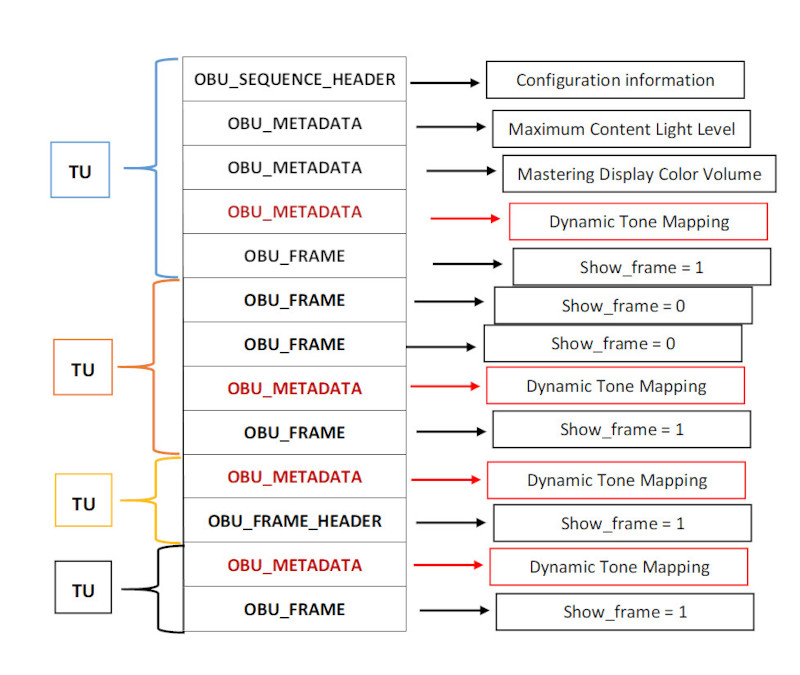
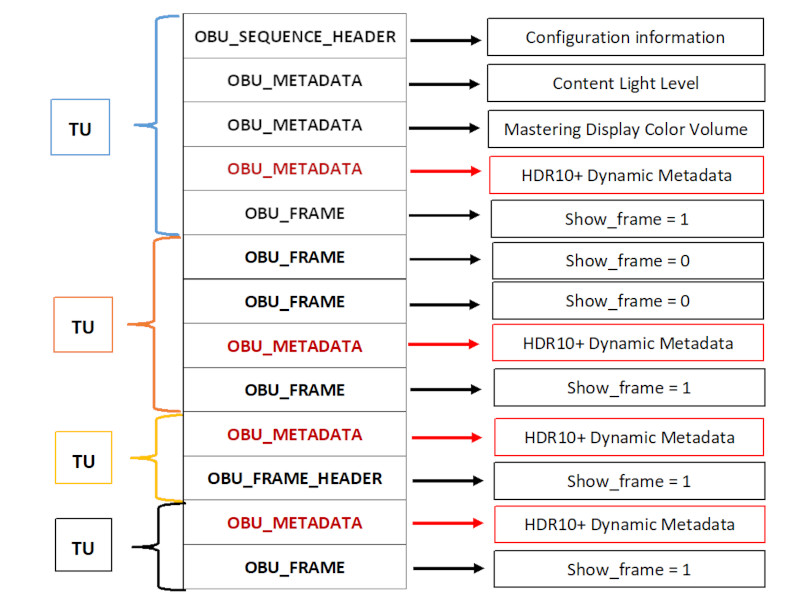
comment resolution

Changed region(s): [[0.0625, 0.0, 0.9688, 0.9672]]

diff --git a/index.html b/index.html
@@ -1487,7 +1487,7 @@ Possible extra rowspan handling
 		}
 	}
 </style>
-  <meta content="Bikeshed version 21183bac3, updated Tue Jun 15 10:19:19 2021 -0700" name="generator">
+  <meta content="Bikeshed version 3d6a6fcbb, updated Wed Jun 16 16:19:39 2021 -0700" name="generator">
   <link href="https://AOMediaCodec.github.io/av1-hdr10plus" rel="canonical">
 <style>/* style-autolinks */
 
@@ -1910,7 +1910,7 @@ THE OTHER MEMBER HAS BEEN ADVISED OF THE POSSIBILITY OF SUCH DAMAGE. </p>
   </div>
   <div class="p-summary" data-fill-with="abstract">
    <h2 class="no-num no-toc no-ref heading settled" id="abstract"><span class="content">Abstract</span></h2>
-   <p>This document specifies how to use HDR10+ metadata with <a data-link-type="biblio" href="#biblio-av1">[AV1]</a> including when supporting <span>[CMAF]</span>.</p>
+   <p>This document specifies how to use HDR10+ metadata with <a data-link-type="biblio" href="#biblio-av1">[AV1]</a> including when supporting <a data-link-type="biblio" href="#biblio-cmaf">[CMAF]</a>.</p>
   </div>
   <div data-fill-with="at-risk"></div>
   <nav data-fill-with="table-of-contents" id="toc">
@@ -1949,7 +1949,6 @@ THE OTHER MEMBER HAS BEEN ADVISED OF THE POSSIBILITY OF SUCH DAMAGE. </p>
      <a href="#references"><span class="secno"></span> <span class="content">References</span></a>
      <ol class="toc">
       <li><a href="#normative"><span class="secno"></span> <span class="content">Normative References</span></a>
-      <li><a href="#informative"><span class="secno"></span> <span class="content">Informative References</span></a>
      </ol>
    </ol>
   </nav>
@@ -1969,7 +1968,7 @@ THE OTHER MEMBER HAS BEEN ADVISED OF THE POSSIBILITY OF SUCH DAMAGE. </p>
    <p>For the purpose of this specification, the following acronyms apply:</p>
    <ul>
     <li data-md>
-     <p><b>CMAF</b>:  MPEG Common Media Application Format</p>
+     <p><b>CMAF</b>:  MPEG Common Media Application Format <a data-link-type="biblio" href="#biblio-cmaf">[CMAF]</a></p>
     <li data-md>
      <p><b>MDCV</b>:  Mastering Display Color Volume SMPTE ST 2086 <a data-link-type="biblio" href="#biblio-2086">[2086]</a></p>
     <li data-md>
@@ -1991,14 +1990,14 @@ THE OTHER MEMBER HAS BEEN ADVISED OF THE POSSIBILITY OF SUCH DAMAGE. </p>
    <h3 class="heading settled" data-level="2.1" id="hdr10-obu"><span class="secno">2.1. </span><span class="content">HDR10+ OBU</span><a class="self-link" href="#hdr10-obu"></a></h3>
    <p>In this specification, HDR10+ Metadata is defined as data with the semantics defined in <a data-link-type="biblio" href="#biblio-2094-40">[2094-40]</a>, using the syntax defined in <a data-link-type="biblio" href="#biblio-cta-861">[CTA-861]</a>, carried in a metadata_type_itut_t35 OBU. This is illustrated in Figure 2.</p>
    <center><img src="./T35.png"></center>
-   <center><b>Figure 2. </b>METADATA_TYPE_ITUT_T35 OBU Structure</center>
-   <p>For each frame with show_frame=1 or show_existing_frame=1, there shall be one and only one HDR10+ metadata OBU preceding the frame header for this frame and located after the last OBU of the previous frame (if any) or after the Sequence Header (if any) or after the start of the temporal unit (e.g. after the temporal delimiter, for storage formats where temporal delimiters are preserved).</p>
-   <p>HDR10 Static Metadata (<a href="https://aomediacodec.github.io/av1-spec/#metadata-high-dynamic-range-mastering-display-color-volume-syntax">MDCV</a>, <a href="https://aomediacodec.github.io/av1-spec/#metadata-high-dynamic-range-content-light-level-syntax">MAXCLL</a>)<b> may </b>be present.</p>
+   <center><b>Figure 1. </b>METADATA_TYPE_ITUT_T35 OBU Structure</center>
+   <p>For each frame with show_frame=1 or show_existing_frame=1, there shall be one and only one HDR10+ metadata OBU preceding the frame header for this frame and located after the last OBU of the previous frame (if any) or after the Sequence Header (if any) or after the start of the temporal unit (e.g. after the temporal delimiter, for storage formats where temporal delimiters are preserved). HDR10+ Dynamic Metadata OBUs are not provided when show_frame=0.</p>
+   <p>HDR10 Static Metadata (<a href="https://aomediacodec.github.io/av1-spec/#metadata-high-dynamic-range-mastering-display-color-volume-syntax">MDCV</a>, <a href="https://aomediacodec.github.io/av1-spec/#metadata-high-dynamic-range-content-light-level-syntax">MaxCLL</a> and <a href="https://aomediacodec.github.io/av1-spec/#metadata-high-dynamic-range-content-light-level-syntax">MaxFALL</a>)<b> may </b>be present.</p>
    <p class="note" role="note"><span>Note:</span> AV1 <a href="https://aomediacodec.github.io/av1-spec/#general-metadata-obu-syntax">defines</a> the general metadata OBU syntax for HDR10 Static Metadata and ITU-T T.35 Metadata.</p>
    <h3 class="heading settled" data-level="2.2" id="constraints-on-obu-placement"><span class="secno">2.2. </span><span class="content">Constraints on OBU placement</span><a class="self-link" href="#constraints-on-obu-placement"></a></h3>
    <p>As defined in <a data-link-type="biblio" href="#biblio-av1">[AV1]</a> and shown in Figure 1 an AOM AV1 coded video sequence consists of one or more TUs. A TU contains a series of OBUs starting from a temporal delimiter, optional sequence headers, optional metadata OBUs, a sequence of one or more frame headers, each followed by zero or more tile group OBUs as well as optional padding OBUs. For non-layered streams, there is only one HDR10+ Dynamic Metadata OBU per TU.  For layered streams, there is only one such OBU per TU per layer.</p>
    <center><img src="./OBU_Frame_Structure.jpg"></center>
-   <center><b>Figure 1.</b> OBU_Frame Structure:  Sample OBU frame consisting of a frame header OBU and a tile group OBU (Reference: <a href="https://aomediacodec.github.io/av1-spec/av1-spec.pdf#page=39">OBU</a>)</center>
+   <center><b>Figure 2.</b> OBU_Frame Structure:  Sample OBU frame consisting of a frame header OBU and a tile group OBU (Reference: <a href="https://aomediacodec.github.io/av1-spec/av1-spec.pdf#page=39">OBU</a>) The red denotes the HDR10+ Dynamic Metadata OBUs.</center>
    <h3 class="heading settled" data-level="2.3" id="mp4-files-example"><span class="secno">2.3. </span><span class="content">MP4 Files (example)</span><a class="self-link" href="#mp4-files-example"></a></h3>
     To be discussed 
    <h3 class="heading settled" data-level="2.4" id="mpeg-2-transport"><span class="secno">2.4. </span><span class="content">MPEG-2 Transport</span><a class="self-link" href="#mpeg-2-transport"></a></h3>
@@ -2006,7 +2005,7 @@ THE OTHER MEMBER HAS BEEN ADVISED OF THE POSSIBILITY OF SUCH DAMAGE. </p>
    <h3 class="heading settled" data-level="2.5" id="rtp"><span class="secno">2.5. </span><span class="content">RTP</span><a class="self-link" href="#rtp"></a></h3>
     To be discussed 
    <h2 class="heading settled" data-level="3" id="cmaf-branding"><span class="secno">3. </span><span class="content">CMAF Branding</span><a class="self-link" href="#cmaf-branding"></a></h2>
-   <p><a href="https://aomediacodec.github.io/av1-isobmff/#cmaf">The CMAF AV1 track format addresses structural constraints on ISOBMFF files defined by CMAF.</a></p>
+   <p>The <a href="https://aomediacodec.github.io/av1-isobmff/#cmaf">CMAF AV1 track format</a> addresses structural constraints on ISOBMFF files defined by CMAF.</p>
    <p>When protected, CMAF AV1 Tracks use the signaling defined in CMAF, which in turn relies on CENC, with the provisions specified in Common Encryption.</p>
    <ul>
     <li data-md>
@@ -2176,23 +2175,22 @@ THE OTHER MEMBER HAS BEEN ADVISED OF THE POSSIBILITY OF SUCH DAMAGE. </p>
   <h2 class="no-num no-ref heading settled" id="references"><span class="content">References</span><a class="self-link" href="#references"></a></h2>
   <h3 class="no-num no-ref heading settled" id="normative"><span class="content">Normative References</span><a class="self-link" href="#normative"></a></h3>
   <dl>
+   <dt id="biblio-2086">[2086]
+   <dd><a href="https://ieeexplore.ieee.org/document/8353899">SMPTE ST 2086:2018</a>. Standard. URL: <a href="https://ieeexplore.ieee.org/document/8353899">https://ieeexplore.ieee.org/document/8353899</a>
    <dt id="biblio-2094-40">[2094-40]
-   <dd><a href="https://ieeexplore.ieee.org/document/9095450">SMPTE 2094-40:2020</a>. Standard. URL: <a href="https://ieeexplore.ieee.org/document/9095450">https://ieeexplore.ieee.org/document/9095450</a>
+   <dd><a href="https://ieeexplore.ieee.org/document/9095450">SMPTE ST 2094-40:2020</a>. Standard. URL: <a href="https://ieeexplore.ieee.org/document/9095450">https://ieeexplore.ieee.org/document/9095450</a>
    <dt id="biblio-av1">[AV1]
    <dd><a href="https://aomediacodec.github.io/av1-spec/av1-spec.pdf">AV1 Bitstream &amp; Decoding Process Specification</a>. Standard. URL: <a href="https://aomediacodec.github.io/av1-spec/av1-spec.pdf">https://aomediacodec.github.io/av1-spec/av1-spec.pdf</a>
-   <dt id="biblio-cta-5001">[CTA-5001]
-   <dd><a href="https://shop.cta.tech/products/web-application-video-ecosystem-content-specification">ANSI-CTA-5001</a>. Standard. URL: <a href="https://shop.cta.tech/products/web-application-video-ecosystem-content-specification">https://shop.cta.tech/products/web-application-video-ecosystem-content-specification</a>
-   <dt id="biblio-cta-861">[CTA-861]
-   <dd><a href="https://shop.cta.tech/products/a-dtv-profile-for-uncompressed-high-speed-digital-interfaces-cta-861-h">ANSI-CTA-861-H</a>. Standard. URL: <a href="https://shop.cta.tech/products/a-dtv-profile-for-uncompressed-high-speed-digital-interfaces-cta-861-h">https://shop.cta.tech/products/a-dtv-profile-for-uncompressed-high-speed-digital-interfaces-cta-861-h</a>
-   <dt id="biblio-rfc2119">[RFC2119]
-   <dd>S. Bradner. <a href="https://tools.ietf.org/html/rfc2119">Key words for use in RFCs to Indicate Requirement Levels</a>. March 1997. Best Current Practice. URL: <a href="https://tools.ietf.org/html/rfc2119">https://tools.ietf.org/html/rfc2119</a>
-  </dl>
-  <h3 class="no-num no-ref heading settled" id="informative"><span class="content">Informative References</span><a class="self-link" href="#informative"></a></h3>
-  <dl>
-   <dt id="biblio-2086">[2086]
-   <dd><a href="https://ieeexplore.ieee.org/document/8353899">SMPTE 2086:2018</a>. Standard. URL: <a href="https://ieeexplore.ieee.org/document/8353899">https://ieeexplore.ieee.org/document/8353899</a>
    <dt id="biblio-av1-isobmff">[AV1-ISOBMFF]
    <dd><a href="https://aomediacodec.github.io/av1-isobmff/">AV1 Codec ISO Media File Format Binding</a>. Standard. URL: <a href="https://aomediacodec.github.io/av1-isobmff/">https://aomediacodec.github.io/av1-isobmff/</a>
+   <dt id="biblio-cmaf">[CMAF]
+   <dd><a href="https://www.iso.org/standard/71975.html">Information technology — Multimedia application format (MPEG-A) — Part 19: Common media application format (CMAF) for segmented media.</a>. Standard. URL: <a href="https://www.iso.org/standard/71975.html">https://www.iso.org/standard/71975.html</a>
+   <dt id="biblio-cta-5001">[CTA-5001]
+   <dd><a href="https://shop.cta.tech/products/web-application-video-ecosystem-content-specification">CTA-5001-C</a>. Standard. URL: <a href="https://shop.cta.tech/products/web-application-video-ecosystem-content-specification">https://shop.cta.tech/products/web-application-video-ecosystem-content-specification</a>
+   <dt id="biblio-cta-861">[CTA-861]
+   <dd><a href="https://shop.cta.tech/products/a-dtv-profile-for-uncompressed-high-speed-digital-interfaces-cta-861-h">ANSI/CTA-861-H</a>. Standard. URL: <a href="https://shop.cta.tech/products/a-dtv-profile-for-uncompressed-high-speed-digital-interfaces-cta-861-h">https://shop.cta.tech/products/a-dtv-profile-for-uncompressed-high-speed-digital-interfaces-cta-861-h</a>
+   <dt id="biblio-rfc2119">[RFC2119]
+   <dd>S. Bradner. <a href="https://tools.ietf.org/html/rfc2119">Key words for use in RFCs to Indicate Requirement Levels</a>. March 1997. Best Current Practice. URL: <a href="https://tools.ietf.org/html/rfc2119">https://tools.ietf.org/html/rfc2119</a>
    <dt id="biblio-scte-215-1-1">[SCTE-215-1-1]
    <dd><a href="https://www.scte.org/pdf-redirect/?url=https://scte-cms-resource-storage.s3.amazonaws.com/ANSI_SCTE-215-1-1-2020b-1616683883836.pdf">ANSI/SCTE-215-1-1 2020</a>. Standard. URL: <a href="https://www.scte.org/pdf-redirect/?url=https://scte-cms-resource-storage.s3.amazonaws.com/ANSI_SCTE-215-1-1-2020b-1616683883836.pdf">https://www.scte.org/pdf-redirect/?url=https://scte-cms-resource-storage.s3.amazonaws.com/ANSI_SCTE-215-1-1-2020b-1616683883836.pdf</a>
    <dt id="biblio-t35">[T35]
